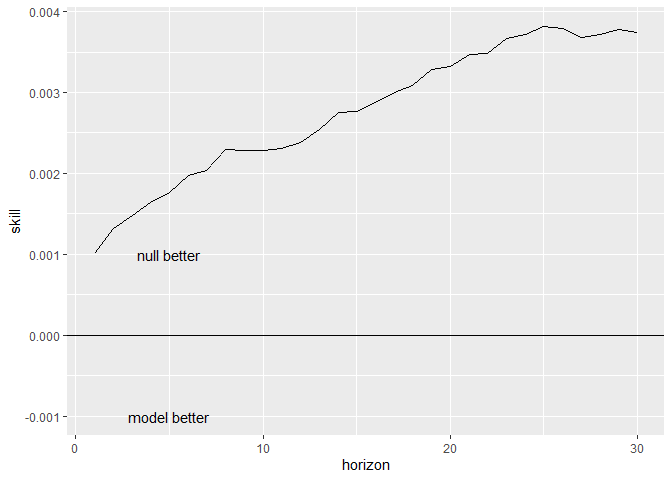
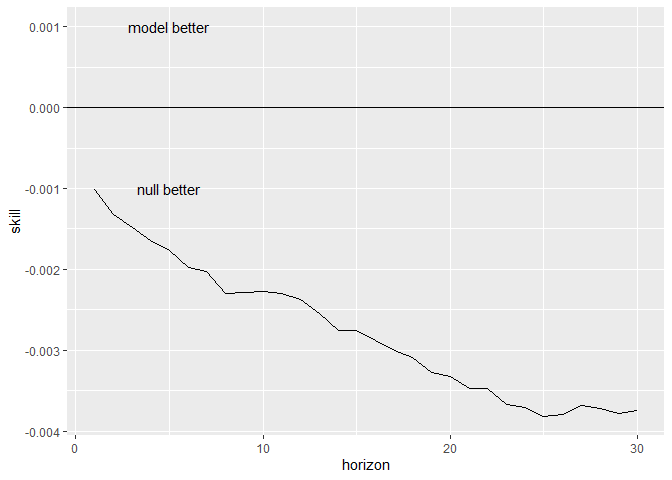
minor edits

diff --git a/tutorial/forecast-evaluation-tutorial.md b/tutorial/forecast-evaluation-tutorial.md
@@ -142,15 +142,42 @@ single_forecast <- arrow::open_dataset(phenology_scores_s3) |>
   collect() |> 
   distinct()
 
+glimpse(single_forecast)
+```
+
+    ## Rows: 35
+    ## Columns: 19
+    ## $ reference_datetime <dttm> 2021-05-01, 2021-05-01, 2021-05-01, 2021-05-01, 20…
+    ## $ site_id            <chr> "HARV", "HARV", "HARV", "HARV", "HARV", "HARV", "HA…
+    ## $ datetime           <dttm> 2021-05-01, 2021-05-02, 2021-05-03, 2021-05-04, 20…
+    ## $ family             <chr> "normal", "normal", "normal", "normal", "normal", "…
+    ## $ pub_datetime       <dttm> NA, NA, NA, NA, NA, NA, NA, NA, NA, NA, NA, NA, NA…
+    ## $ observation        <dbl> 0.33049, 0.33312, 0.33543, 0.33667, 0.33682, 0.3326…
+    ## $ crps               <dbl> 0.004260245, 0.004297509, 0.004528762, 0.004629344,…
+    ## $ logs               <dbl> -3.09169770, -3.08527259, -3.06442801, -3.05266459,…
+    ## $ mean               <dbl> 0.3317629, 0.3316124, 0.3320309, 0.3328100, 0.33387…
+    ## $ median             <dbl> 0.3317629, 0.3316124, 0.3320309, 0.3328100, 0.33387…
+    ## $ sd                 <dbl> 0.01807699, 0.01817604, 0.01830450, 0.01843462, 0.0…
+    ## $ quantile97.5       <dbl> 0.3671931, 0.3672367, 0.3679071, 0.3689412, 0.37025…
+    ## $ quantile02.5       <dbl> 0.2963326, 0.2959880, 0.2961547, 0.2966788, 0.29749…
+    ## $ quantile90         <dbl> 0.3614969, 0.3615093, 0.3621391, 0.3631323, 0.36440…
+    ## $ quantile10         <dbl> 0.3020289, 0.3017154, 0.3019227, 0.3024878, 0.30334…
+    ## $ duration           <chr> "P1D", "P1D", "P1D", "P1D", "P1D", "P1D", "P1D", "P…
+    ## $ model_id           <chr> "UCSC_P_EDM", "UCSC_P_EDM", "UCSC_P_EDM", "UCSC_P_E…
+    ## $ project_id         <chr> "neon4cast", "neon4cast", "neon4cast", "neon4cast",…
+    ## $ variable           <chr> "gcc_90", "gcc_90", "gcc_90", "gcc_90", "gcc_90", "…
+
+A plot of this forecast (median + 95% CI), looks like this:
+
+``` r
 single_forecast |> 
   ggplot(aes(x=datetime)) +
   geom_ribbon(aes(ymax = quantile97.5, ymin = quantile02.5), alpha = 0.3) +
   geom_line(aes(y = mean)) +
-  geom_point(aes(y = observation)) +
   ylab(expression(bold(G[CC])))
 ```
 
-![](forecast-evaluation-tutorial_files/figure-markdown_github/access-catalog2-1.png)
+![](forecast-evaluation-tutorial_files/figure-markdown_github/single-forecast-1.png)
 
 We can plot the mean prediction (solid line) compared to the
 observations (points) as a visual starting point for evaluating that
@@ -312,7 +339,7 @@ predictive intervals</figcaption>
 </figure>
 
 For our single reference date analysis we could look at whether each
-observations falls inside or outside the forecast intervals
+observations falls inside or outside the forecast intervals.
 
 ``` r
 single_forecast |> 
@@ -392,7 +419,7 @@ and the datetime.
 ``` r
 multiple_forecasts <- multiple_forecasts |> 
   mutate(horizon = as.numeric(as_date(datetime) - as_date(reference_datetime))) |> 
-  filter(between(horizon, 1,30)) 
+  filter(between(horizon, 1, 30)) 
 ```
 
 We can then summarise some of our metrics across horizon, to see how
@@ -635,7 +662,7 @@ bind_rows(null_model_forecasts, multiple_forecasts) |>
   select(model_id, reference_datetime, datetime, crps) |> 
   pivot_wider(names_from = model_id, 
               values_from = crps) |> 
-  mutate(skill = UCSC_P_EDM - climatology,
+  mutate(skill =  climatology - UCSC_P_EDM,
          horizon = as.numeric(as_date(datetime) - as_date(reference_datetime))) |>
   group_by(horizon) |> 
   summarise(skill = mean(skill, na.rm = T), groups = 'drop') |> 
@@ -643,8 +670,8 @@ bind_rows(null_model_forecasts, multiple_forecasts) |>
   ggplot(aes(x = horizon)) +
   geom_line(aes(y = skill)) +
   geom_hline(yintercept = 0) +
-  annotate('text', x = 5, y = 0.001, label = 'null better') +
-  annotate('text', x=5, y = -0.001, label = 'model better') 
+  annotate('text', x = 5, y = -0.001, label = 'null better') +
+  annotate('text', x=5, y = 0.001, label = 'model better') 
 ```
 
 ![](forecast-evaluation-tutorial_files/figure-markdown_github/calc-skill-1.png)
@@ -736,7 +763,7 @@ aquatic_forecasts |>
   select(model_id, reference_datetime, datetime, crps) |> 
   pivot_wider(names_from = model_id, 
               values_from = crps) |> 
-  mutate(skill = flareGLM - climatology,
+  mutate(skill = climatology - flareGLM,
          horizon = as.numeric(as_date(datetime) - as_date(reference_datetime))) |>
   
   # what is the average skill over horizon
@@ -882,8 +909,9 @@ considerations to be made.
 
 -   are we making equal comparisons?
 
-For the aquatics example we are comparing 1060 climatology forecasts to
-863 flareGLM forecasts - is this okay? What about if our phenology model
+For the phenology example we are comparing 341 PEG forecasts to
+`nrow(distinct(filter(multi_model_forecasts, model_id == 'UCSC_P_EDM'), reference_datetime))`
+UCSC_P_EDM forecasts - is this okay? What about if one of the models
 only forecasted greenness during the winter (easy) and not in spring
 (harder), would this be a fair comparison?
 
